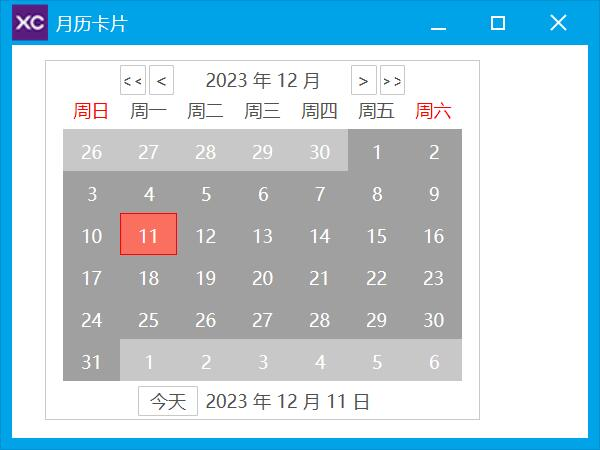
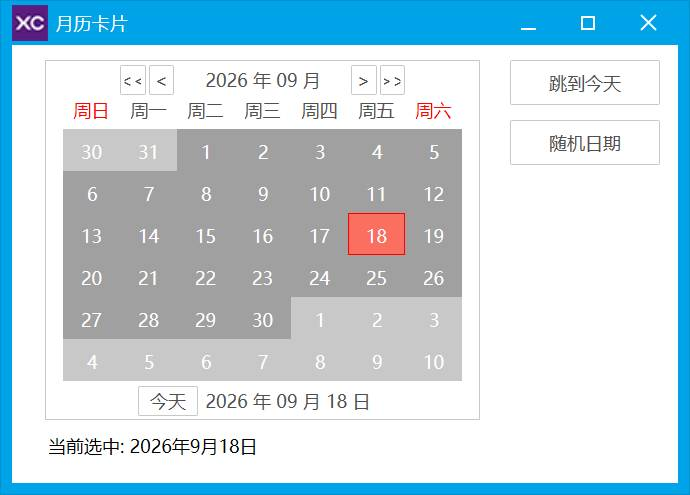
月历卡片

diff --git a/Basic/MonthCal/MonthCal.go b/Basic/MonthCal/MonthCal.go
@@ -3,6 +3,8 @@ package main
 
 import (
 	"fmt"
+	"math/rand"
+	"time"
 
 	"github.com/twgh/xcgui/app"
 	"github.com/twgh/xcgui/widget"
@@ -17,18 +19,58 @@ func main() {
 	// 启用自适应DPI
 	a.EnableAutoDPI(true).EnableDPI(true)
 	// 创建窗口
-	w := window.New(0, 0, 400, 300, "月历卡片", 0, xcc.Window_Style_Default)
+	w := window.New(0, 0, 460, 330, "月历卡片", 0, xcc.Window_Style_Default)
 
 	// 创建MonthCal
 	monthCal := widget.NewMonthCal(30, 40, 290, 240, w.Handle)
-	// 注册月历元素日期改变事件
-	monthCal.AddEvent_MonthCal_Change(func(hEle int, pbHandled *bool) int {
-		// 获取被选择的年月日
+
+	// 用形状文本在窗口上显示当前选中的日期
+	stDate := widget.NewShapeText(30, 285, 400, 24, "当前选中:", w.Handle)
+
+	// 读取月历选中日期并刷新到界面.
+	updateText := func() {
 		var pnYear, pnMonth, pnDay int32
 		monthCal.GetSelDate(&pnYear, &pnMonth, &pnDay)
-		fmt.Printf("%d年%d月%d日\n", pnYear, pnMonth, pnDay)
+		stDate.SetText(fmt.Sprintf("当前选中: %d年%d月%d日", pnYear, pnMonth, pnDay))
+		// 修改元素显示内容后必须重绘, 否则界面不刷新
+		stDate.Redraw()
+	}
+
+	// 注册月历元素日期改变事件, 使用 MonthCal 的 SetToday 方法也会触发.
+	monthCal.AddEvent_MonthCal_Change(func(hEle int, pbHandled *bool) int {
+		updateText()
 		return 0
 	})
+
+	// 获取月历里的今天按钮.
+	btnToday := widget.NewButtonByHandle(monthCal.GetButton(xcc.MonthCal_Button_Type_Today))
+
+	// 按钮: 用 SetToday(年, 月, 日) 配合点击 btnToday 跳转到今天.
+	btnJumpToday := widget.NewButton(340, 40, 100, 30, "跳到今天", w.Handle)
+	btnJumpToday.AddEvent_BnClick(func(hEle int, pbHandled *bool) int {
+		n := time.Now()
+		// SetToday 设置月历选中的年月日, 并没有使月历中显示的那个选中日期状态发生改变
+		monthCal.SetToday(int32(n.Year()), int32(n.Month()), int32(n.Day()))
+		// 发送点击事件, 会把月历中显示的选中日期改变了, 就是让月份跳转到上面设置的日期那里
+		btnToday.PostEvent(xcc.XE_BNCLICK, 0, 0)
+		monthCal.Redraw(false)
+		return 0
+	})
+
+	// 按钮: 随机跳转到一个 2000~2030 年的日期.
+	btnRandom := widget.NewButton(340, 80, 100, 30, "随机日期", w.Handle)
+	btnRandom.AddEvent_BnClick(func(hEle int, pbHandled *bool) int {
+		year := int32(2000 + rand.Intn(31))
+		month := int32(1 + rand.Intn(12))
+		day := int32(1 + rand.Intn(28))
+		monthCal.SetToday(year, month, day)
+		btnToday.PostEvent(xcc.XE_BNCLICK, 0, 0)
+		monthCal.Redraw(false)
+		return 0
+	})
+
+	// 初始显示一次当前选中日期.
+	updateText()
 
 	w.ShowWindow(xcc.SW_SHOW)
 	a.Run()
